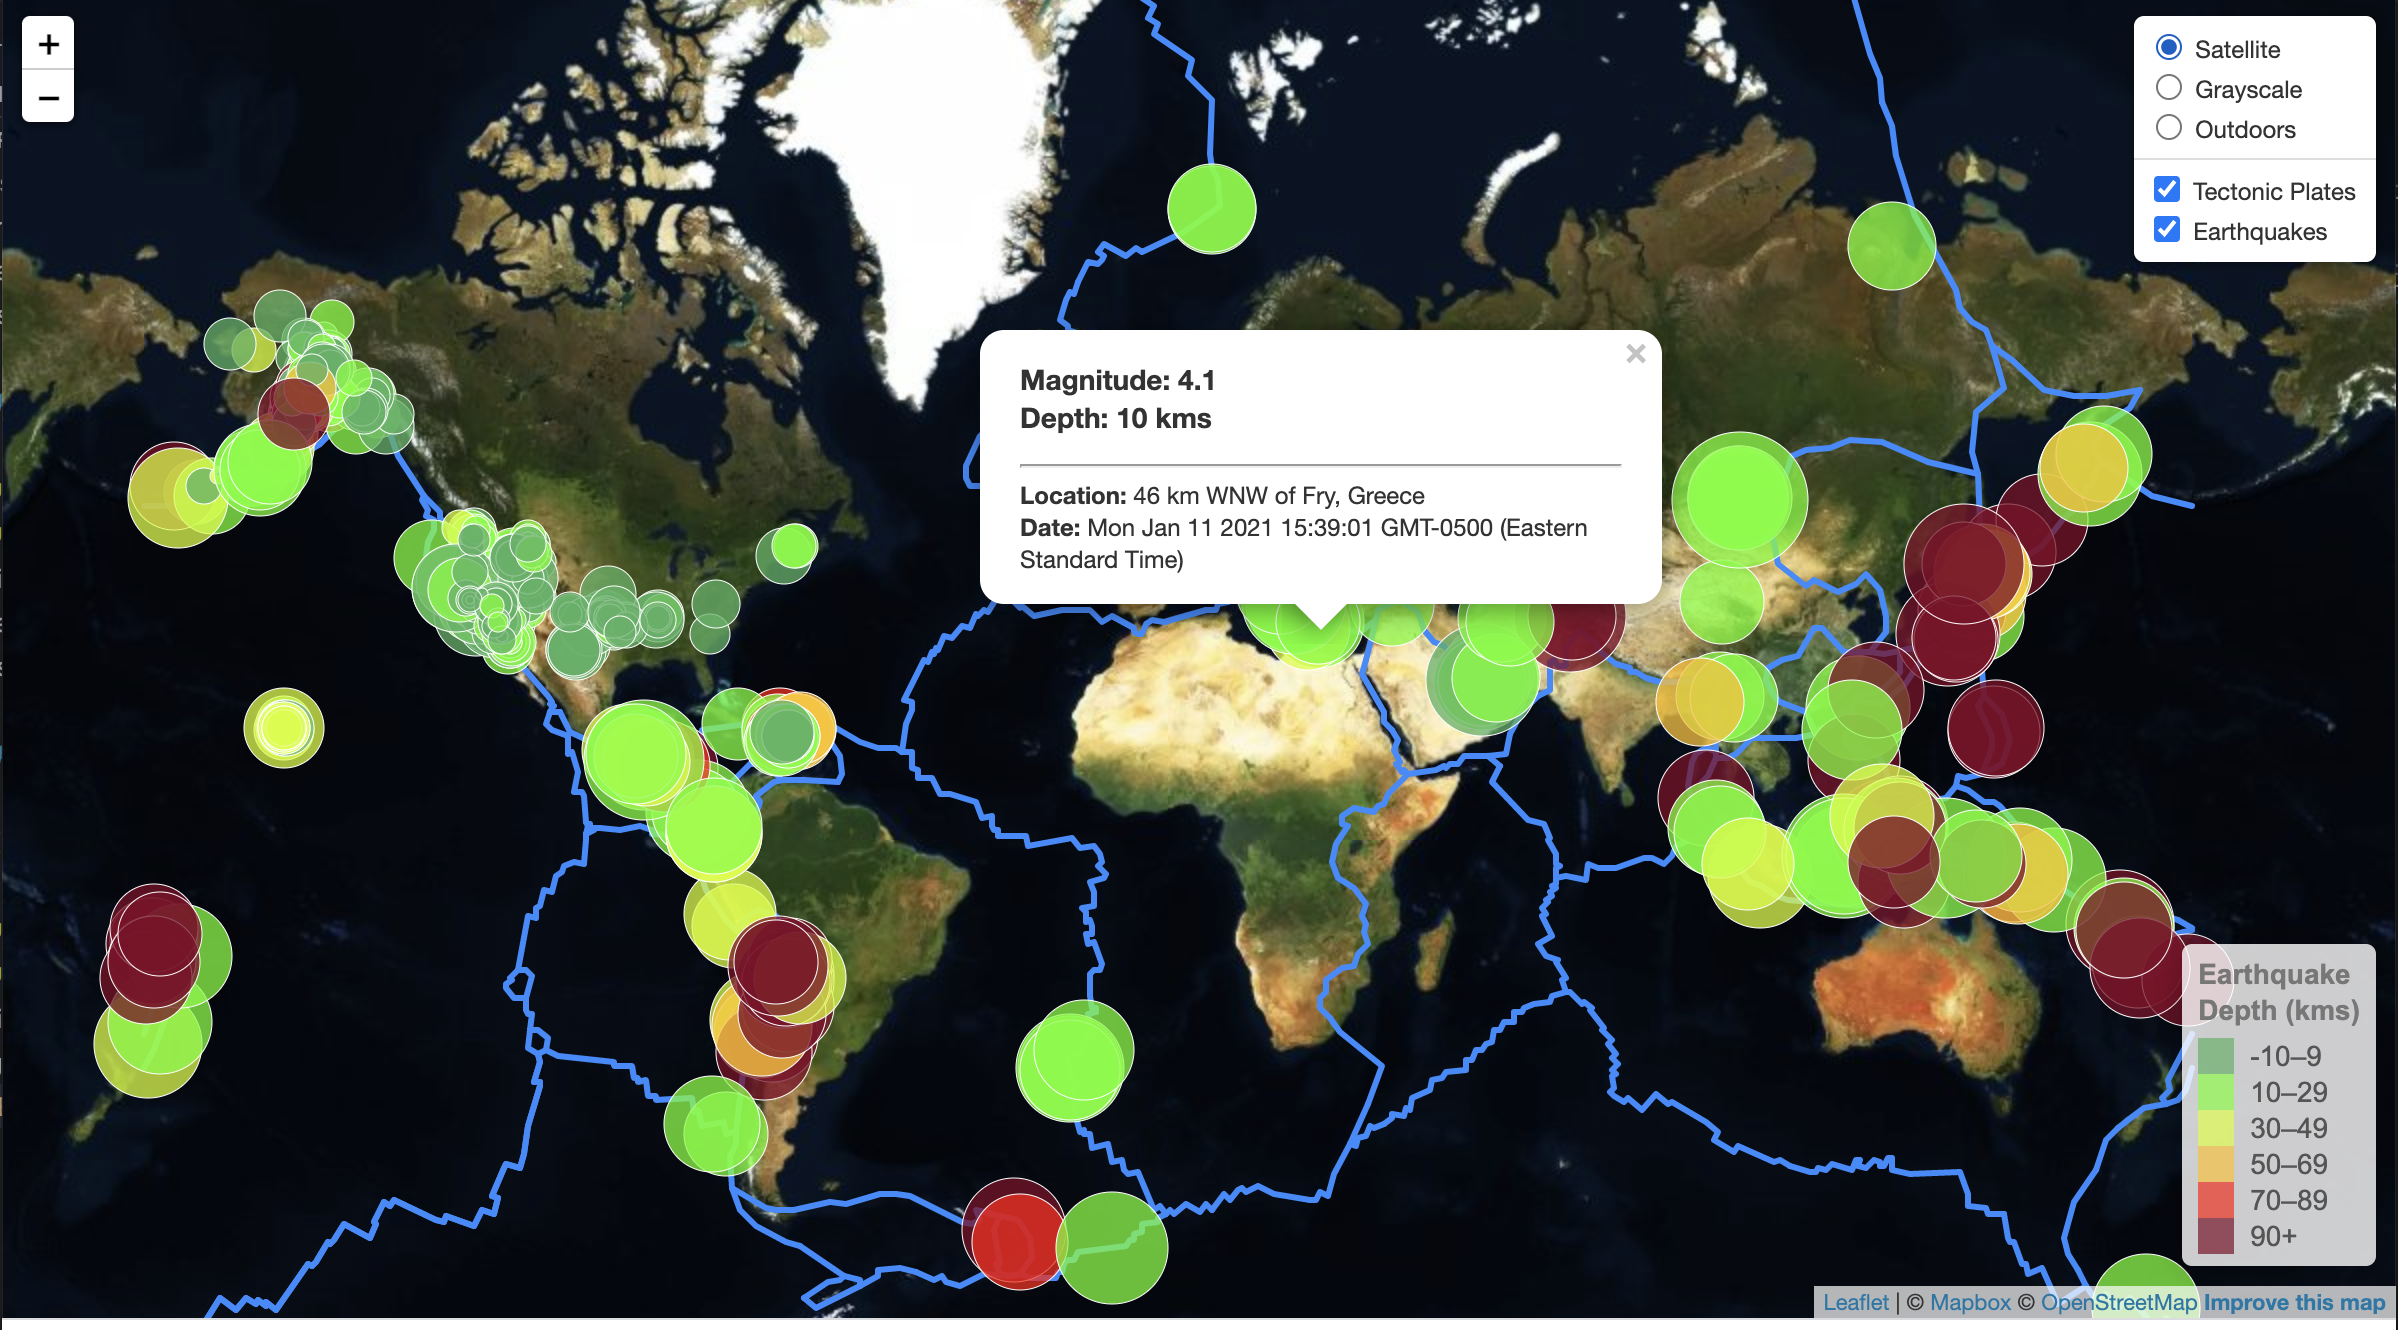
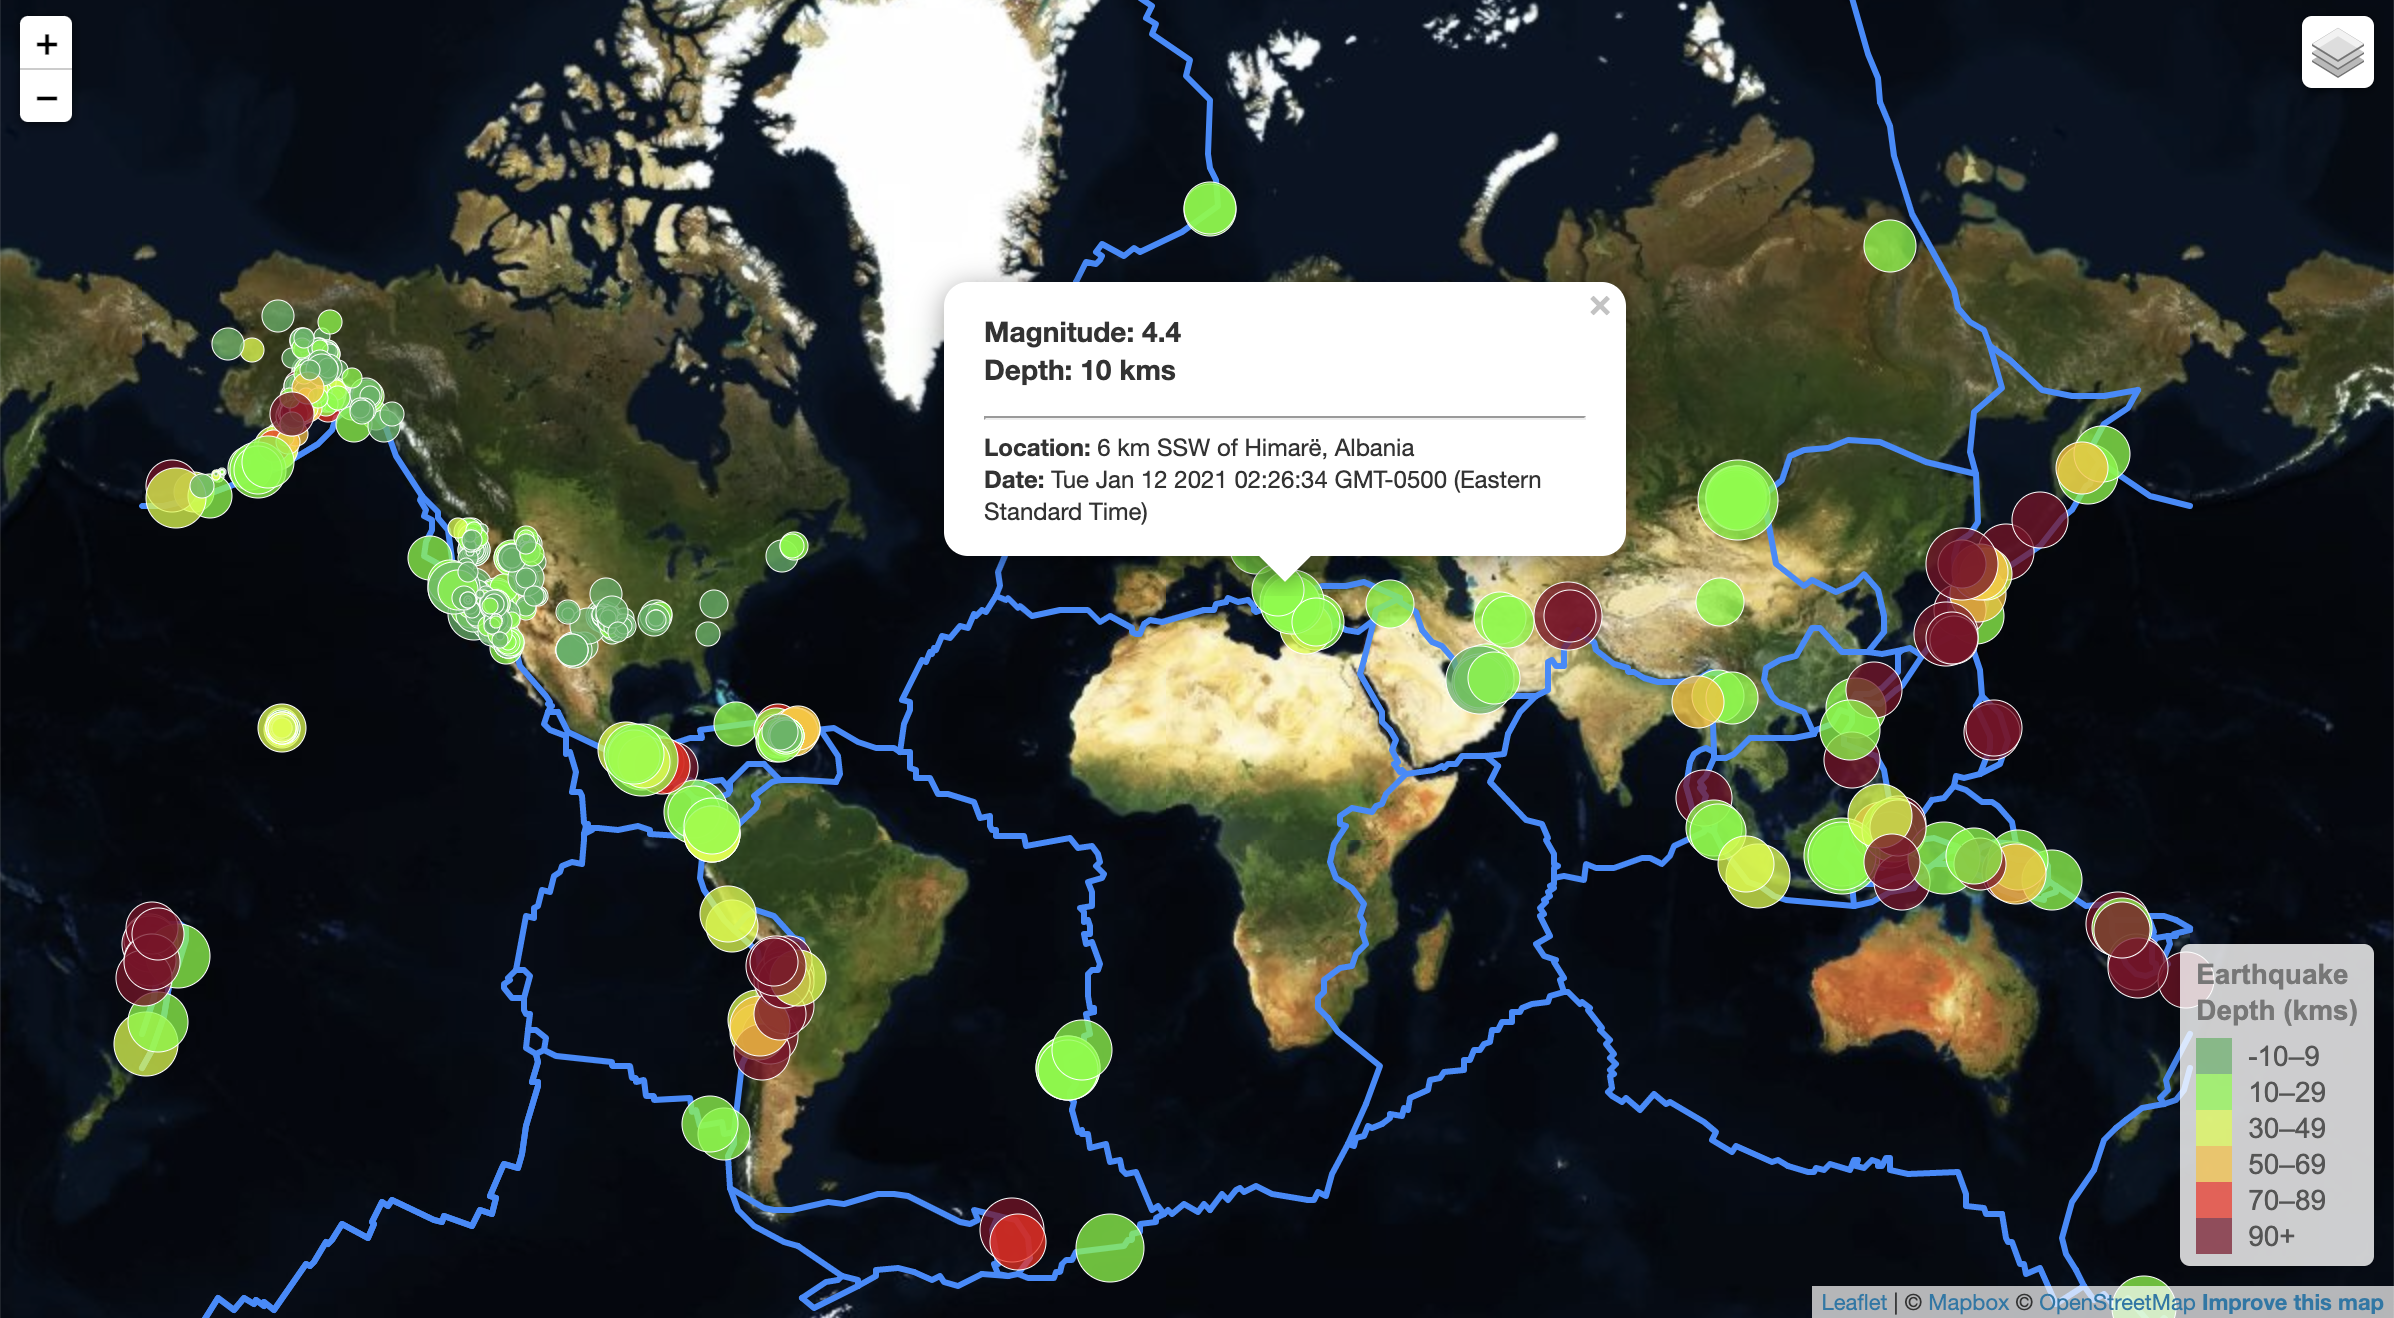
ReadMe

diff --git a/Leaflet-Step-2/static/js/logic.js b/Leaflet-Step-2/static/js/logic.js
@@ -110,7 +110,7 @@ d3.json(EarthquakeURL, function (response) {
           // get color of circle based on earthquake depth
           fillColor: getColor(location.coordinates[2]),
           // Adjust radius based on magnitude
-          radius: earthquakeData[i].properties.mag * 5
+          radius: earthquakeData[i].properties.mag * 3
         }).bindPopup("<h3>Magnitude: " + earthquakeData[i].properties.mag
           + "<br>Depth: " + location.coordinates[2]
           + " kms</h3><hr><strong>Location: </strong>" + earthquakeData[i].properties.place
